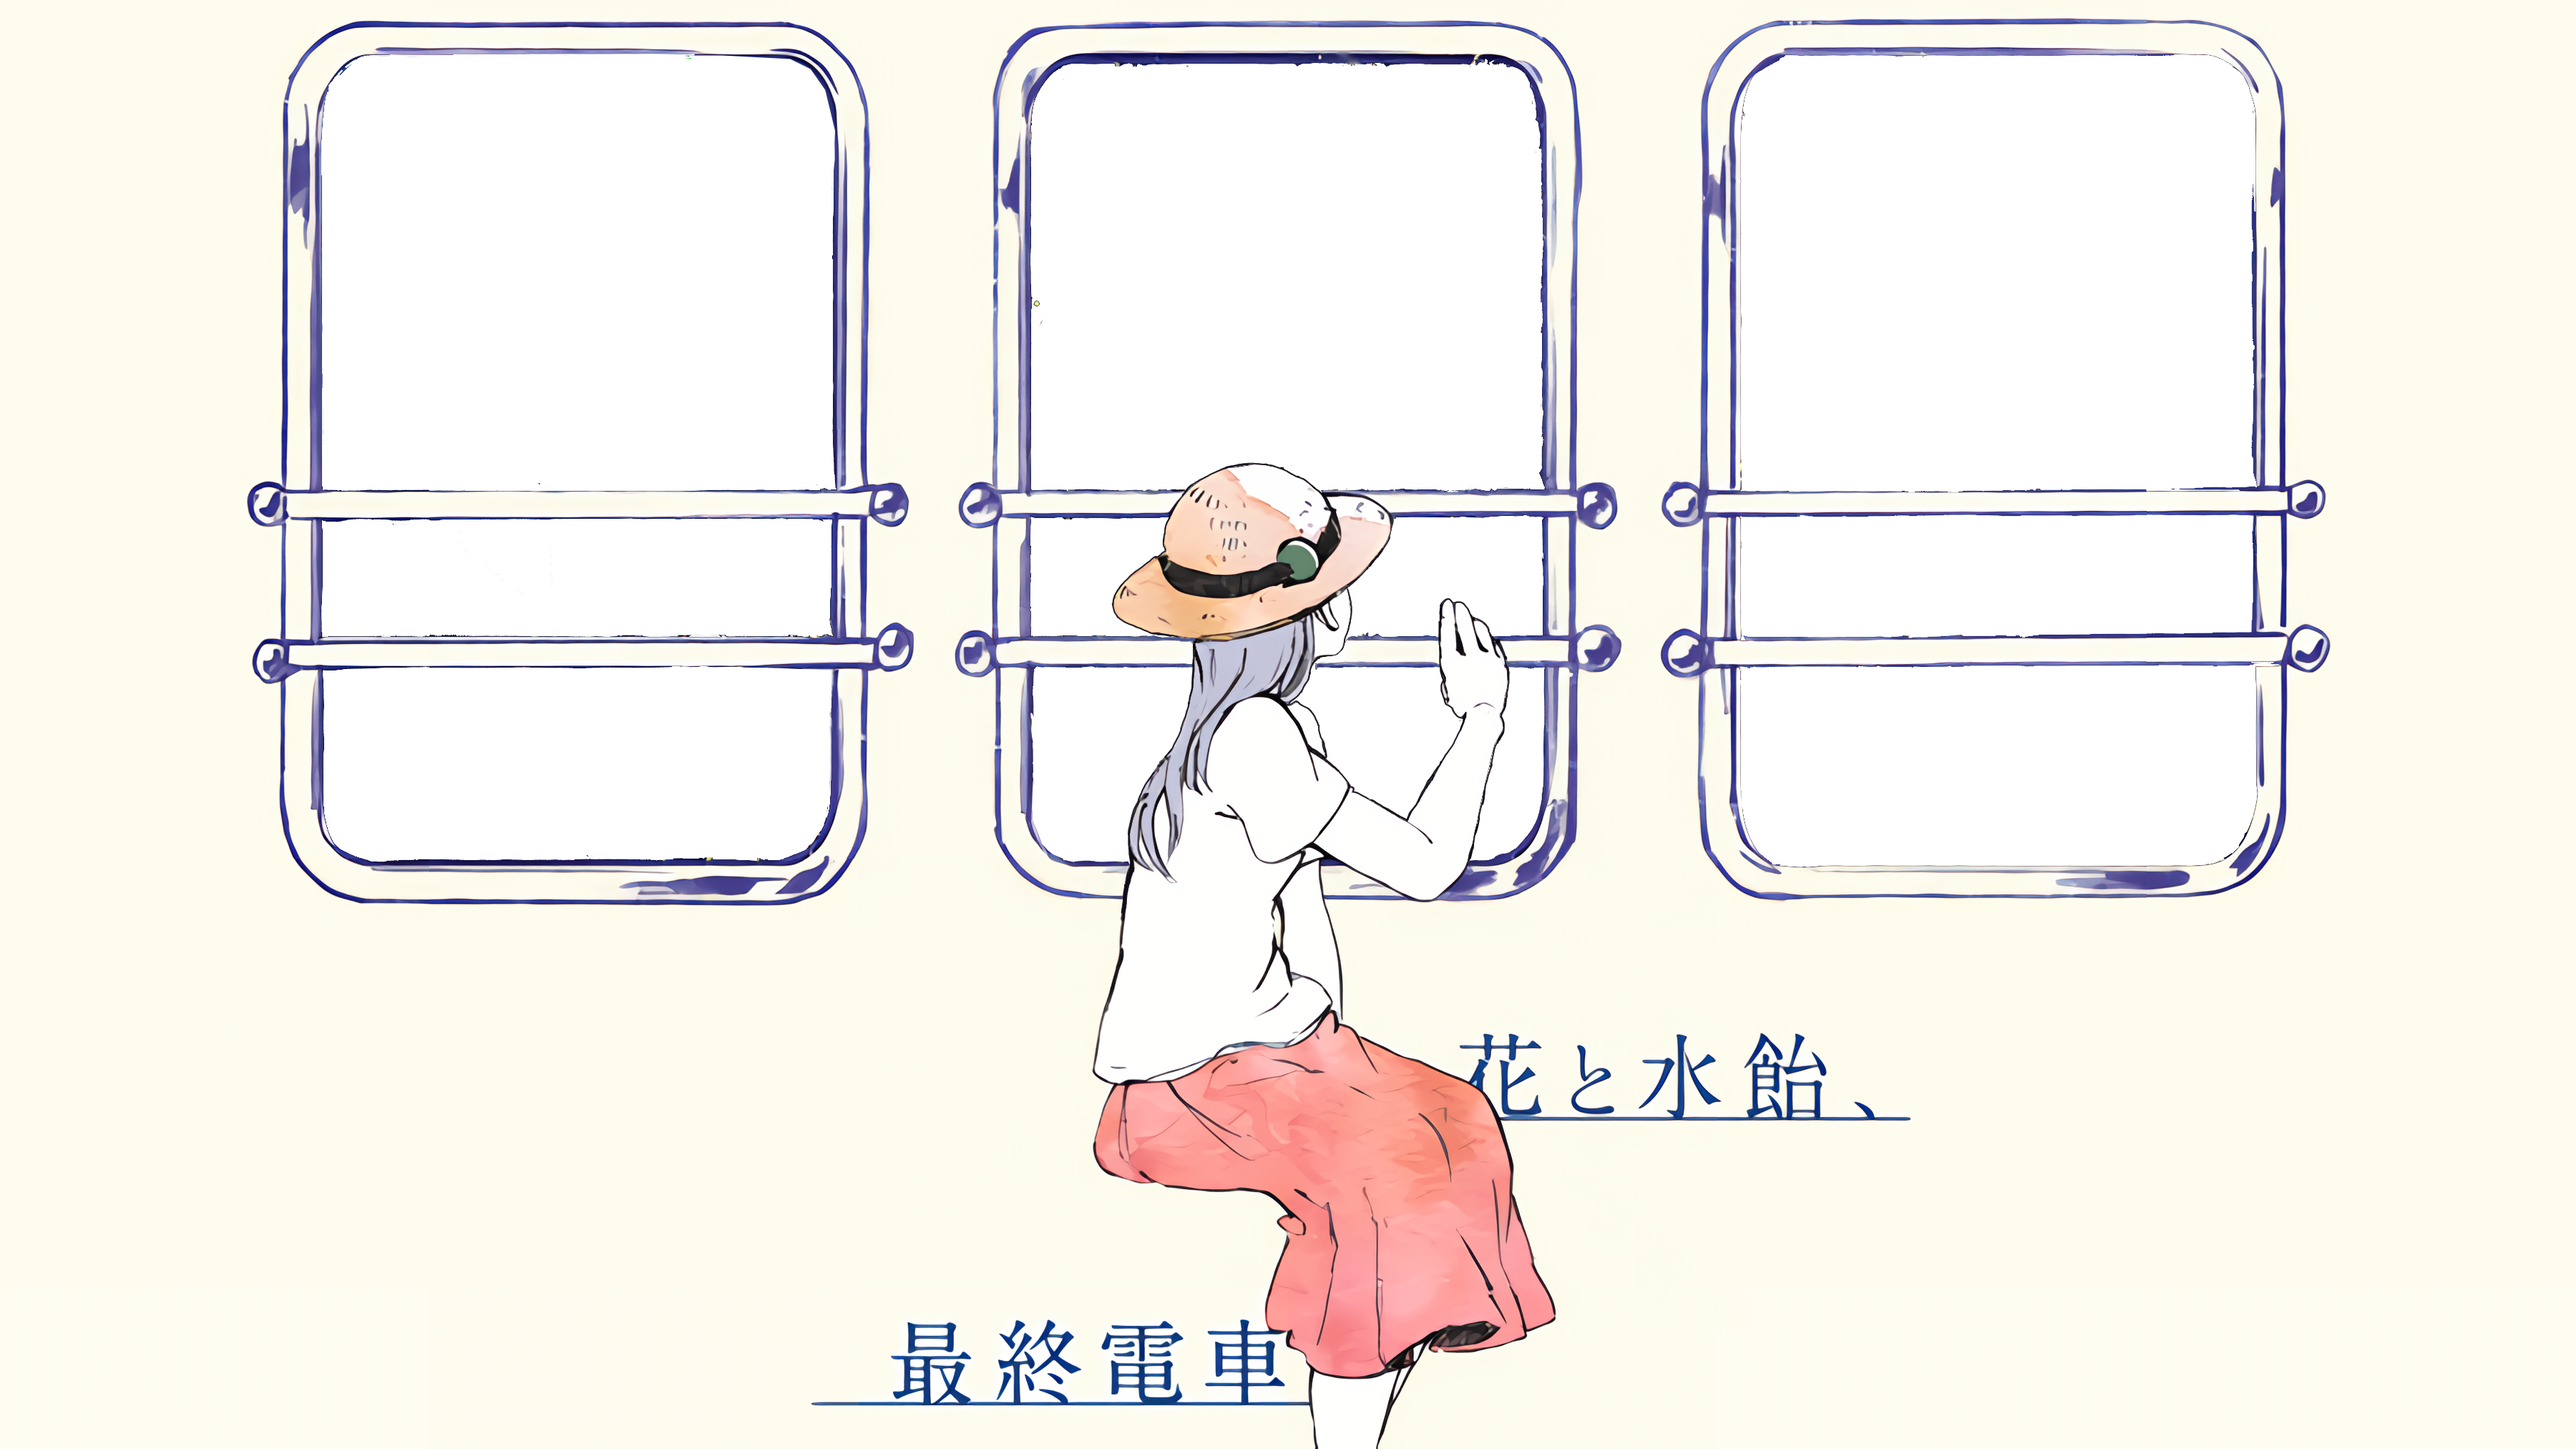
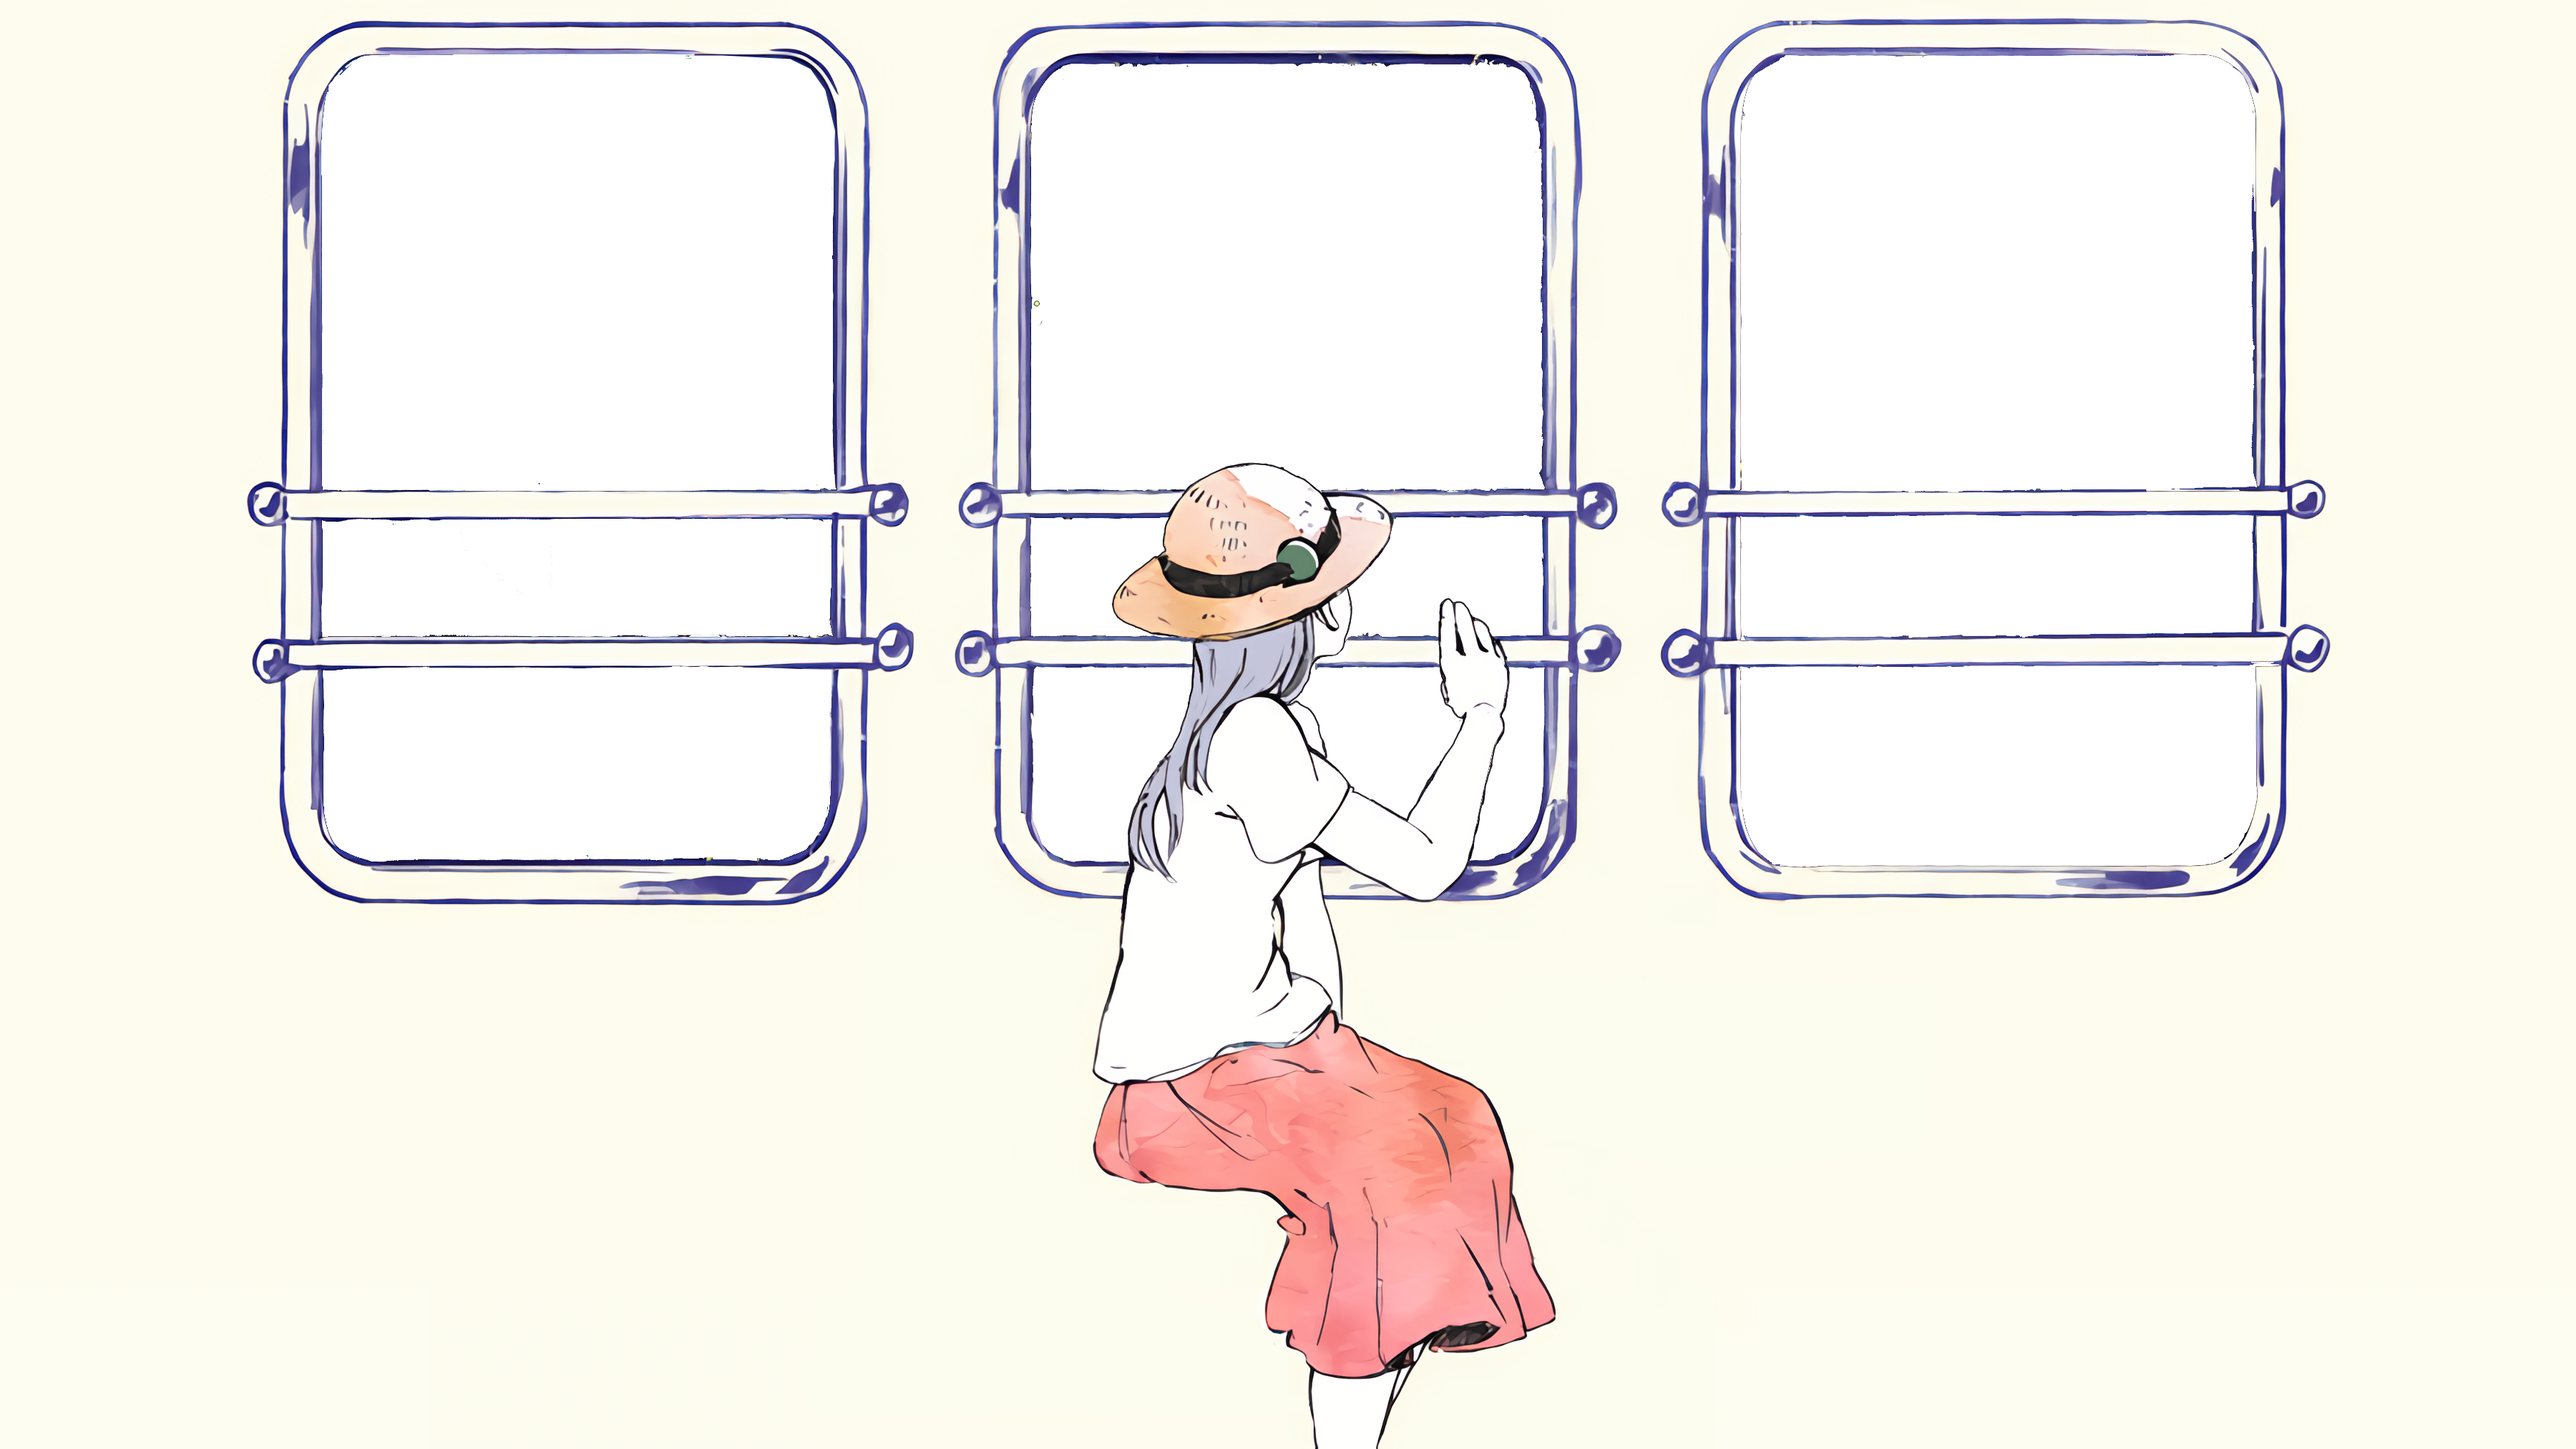
add images; add scroll animation

Changed region(s): [[0.3422, 0.9022, 0.4978, 0.9956], [0.56, 0.7156, 0.7467, 0.7778]]

diff --git a/app.vue b/app.vue
@@ -1,18 +1,40 @@
 <template>
     <div>
-        <div class="overscroll-none scale-105 pointer-events-none absolute top-0 left-0 z-50 h-screen w-screen bg-[url('/電車.png')] bg-cover bg-center bg-no-repeat shake-animation"></div>
+        <div class="overscroll-none scale-105 pointer-events-none absolute top-0 left-0 z-50 h-screen w-screen bg-[url('/電車_no_title.png')] bg-cover bg-center bg-no-repeat shake-animation"></div>
         <div class="overscroll-none flex overflow-x-auto hide-scrollbar" ref="images">
-            <img class="h-screen object-cover" src="/test.png" alt="">
-            <img class="h-screen object-cover" src="/test.png" alt="">
-            <img class="h-screen object-cover" src="/test.png" alt="">
-            <img class="h-screen object-cover" src="/test.png" alt="">
-            <img class="h-screen object-cover" src="/test.png" alt="">
-            <img class="h-screen object-cover" src="/test.png" alt="">
-            <img class="h-screen object-cover" src="/test.png" alt="">
-            <!-- Repeat for other images -->
+            <img class="h-screen object-cover img-blur-to-white" src="/screenshots/1-もうじき夏が終わるから.png" alt="">
+            <img class="h-screen object-cover img-blur-to-white" src="/screenshots/2-無人駅.png" alt="">
+            <img class="h-screen object-cover img-blur-to-white" src="/screenshots/3-始発とカフカ.png" alt="">
+            <img class="h-screen object-cover img-blur-to-white" src="/screenshots/4-ウミユリ海底譚.png" alt="">
+            <img class="h-screen object-cover img-blur-to-white" src="/screenshots/5-背景、夏に溺れる.png" alt="">
+            <img class="h-screen object-cover img-blur-to-white" src="/screenshots/6-ヒグレギ.png" alt="">
+            <img class="h-screen object-cover img-blur-to-white" src="/screenshots/7-透明エレジ.png" alt="">
+            <img class="h-screen object-cover img-blur-to-white" src="/screenshots/8-メリュー.png" alt="">
+            <img class="h-screen object-cover img-blur-to-white" src="/screenshots/9-着火、カウントダウン.png" alt="">
+            <img class="h-screen object-cover img-blur-to-white" src="/screenshots/10-ずっと空を見ていた.png" alt="">
+            <img class="h-screen object-cover img-blur-to-white" src="/screenshots/11-夜明けと蛍.png" alt="">
         </div>
     </div>
+    <div class="fixed top-0 right-0 z-50 transition-all translate-x-[93%] hover:translate-x-0">
+        <iframe frameborder="no" border="0" marginwidth="0" marginheight="0" width=330 height=450 src="//music.163.com/outchain/player?type=1&id=3190774&auto=1&height=430"></iframe>
+    </div>
 </template>
+
+<script setup>
+import anime from "animejs";
+
+let images = ref(null);
+
+onMounted(() => {
+    anime({
+        targets: images.value,
+        scrollLeft: images.value.scrollWidth,
+        duration: 100000,
+        easing: "linear",
+        loop: true
+    })
+});
+</script>
 
 <style scoped>
 .hide-scrollbar::-webkit-scrollbar {
@@ -38,6 +60,9 @@
     20%, 40%, 60%, 80% {
         transform: translateX(-2px);
     }
+}
 
+.img-blur-to-white {
+    mask-image: linear-gradient(to right, rgba(0, 0, 0, 0) 0%, rgba(0, 0, 0, 0.5) 10%, rgba(0, 0, 0, 0.5) 90%, rgba(0, 0, 0, 0) 100%);
 }
 </style>
